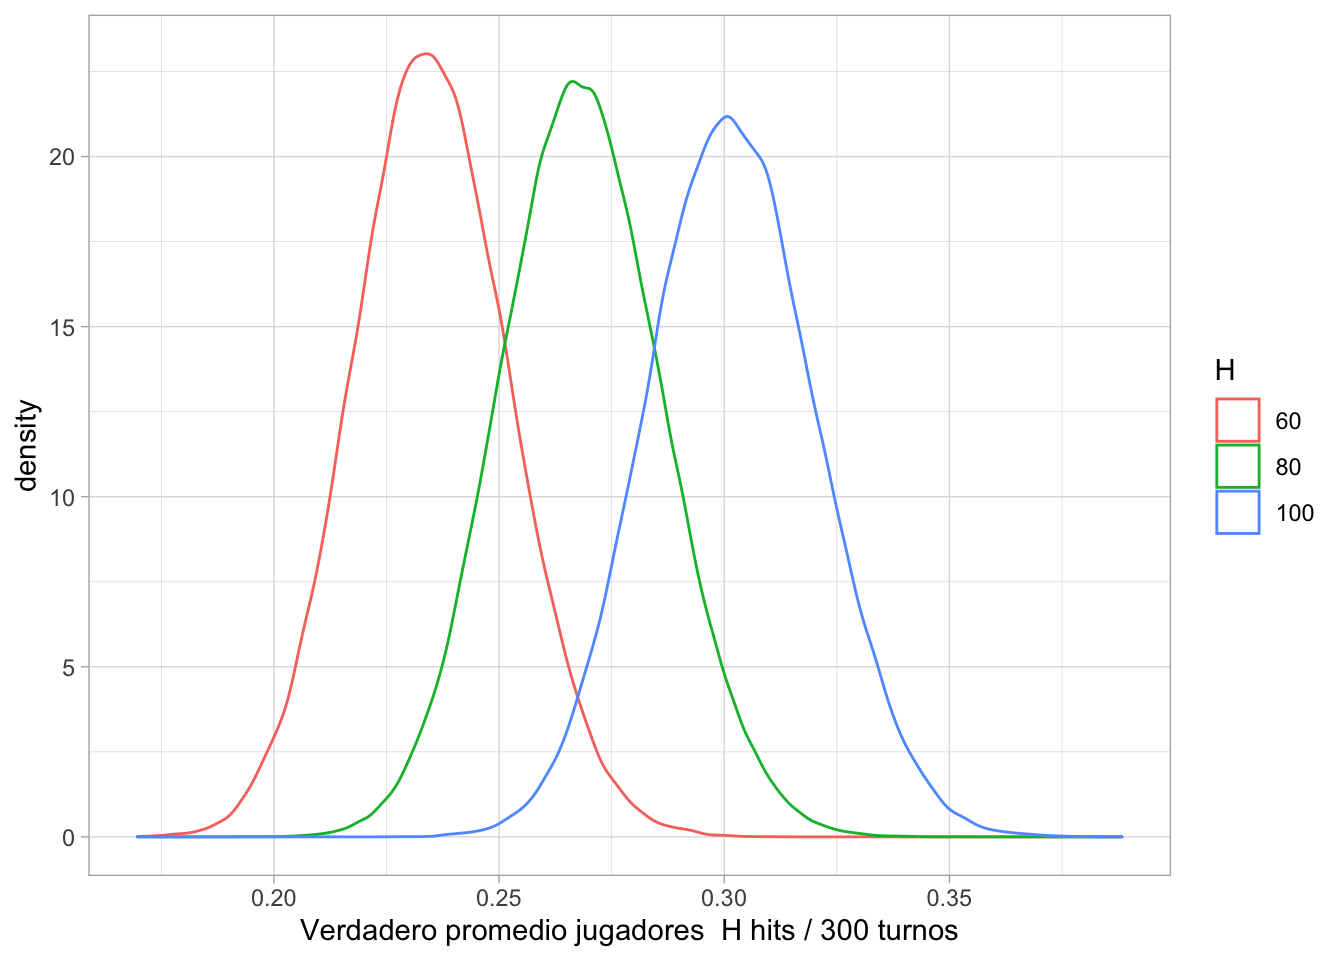
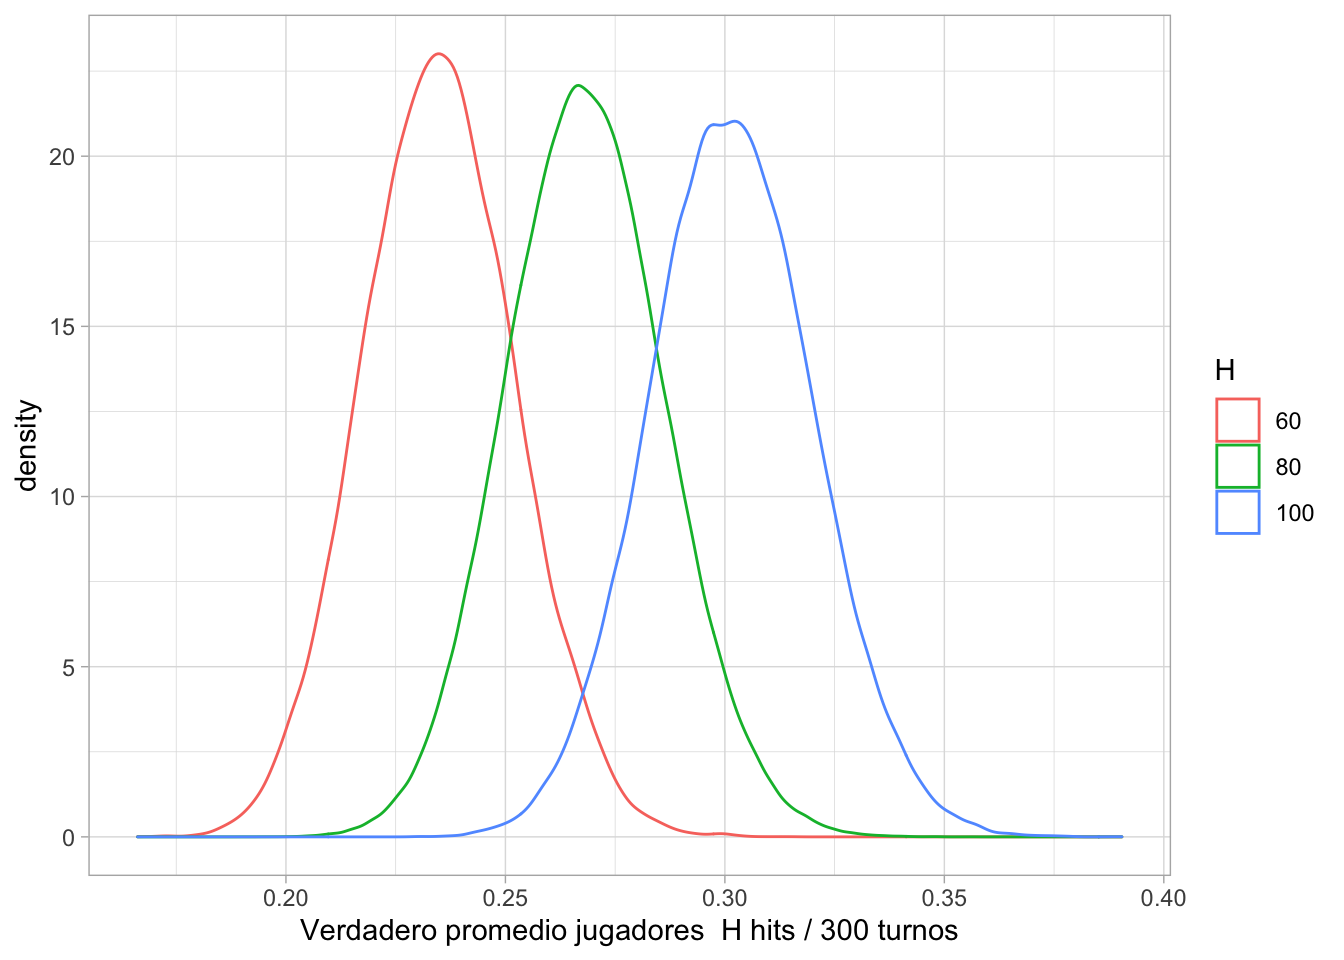
some changes

diff --git a/content/post/2019-02-09-Distribucion_Beta.html b/content/post/2019-02-09-Distribucion_Beta.html
@@ -136,22 +136,22 @@ Teniendo presente que la inferior del estimativo está dado por</p>
 <pre><code>## # A tibble: 6 x 2
 ##   true_average  hits
 ##          &lt;dbl&gt; &lt;int&gt;
-## 1        0.277    70
-## 2        0.289    89
-## 3        0.296    90
-## 4        0.276    73
-## 5        0.257    75
-## 6        0.229    67</code></pre>
+## 1        0.251    77
+## 2        0.315    82
+## 3        0.286    99
+## 4        0.297    95
+## 5        0.244    72
+## 6        0.246    73</code></pre>
 <p>Ahora se debe buscar los jugadores que realmente cumplieron el estimativo de <span class="math inline">\(\frac{100}{300}\)</span></p>
 <pre><code>## # A tibble: 6 x 2
 ##   true_average  hits
 ##          &lt;dbl&gt; &lt;int&gt;
-## 1        0.275   100
-## 2        0.262   100
-## 3        0.298   100
-## 4        0.293   100
-## 5        0.320   100
-## 6        0.297   100</code></pre>
+## 1        0.297   100
+## 2        0.288   100
+## 3        0.308   100
+## 4        0.296   100
+## 5        0.309   100
+## 6        0.320   100</code></pre>
 <p>Ahora toca visualizar los promedios de bateo de estos <span class="math inline">\(\frac{100}{300}\)</span> e identificar que tan bueno era el jugador mediano</p>
 <pre><code>## `stat_bin()` using `bins = 30`. Pick better value with `binwidth`.</code></pre>
 <p><img src="/post/2019-02-09-Distribucion_Beta_files/figure-html/unnamed-chunk-9-1.png" width="672" /></p>
